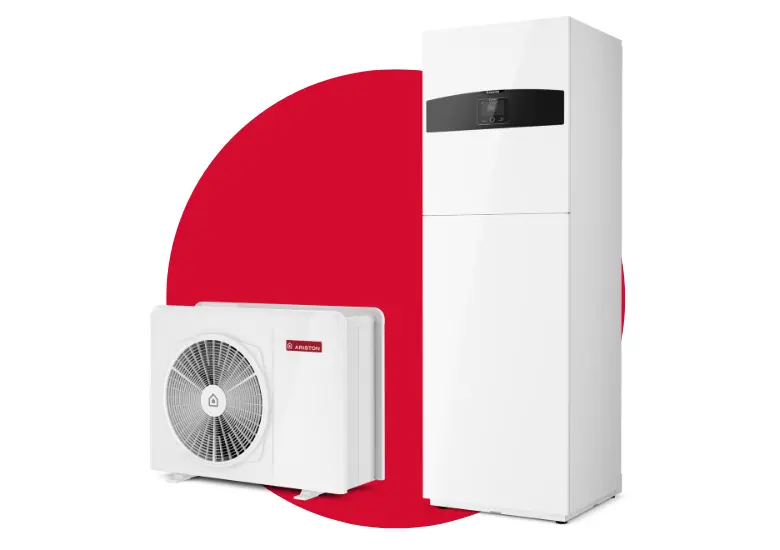
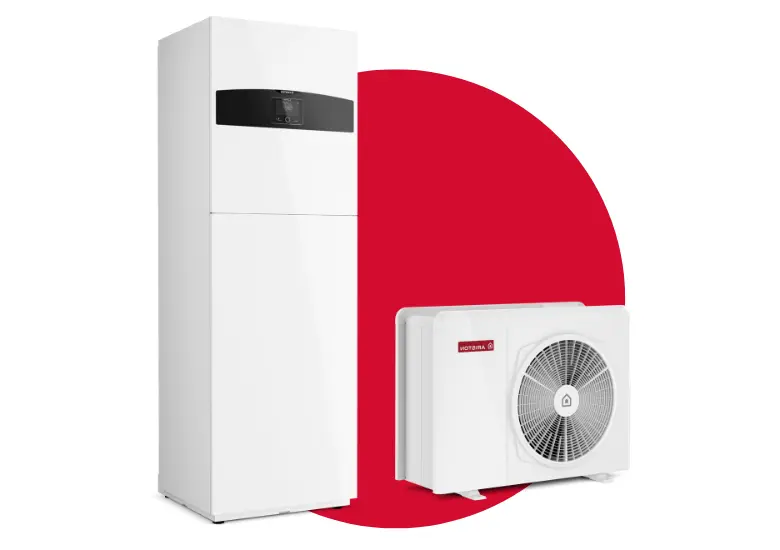
changes with Nora

diff --git a/src/components/ContactForm.jsx b/src/components/ContactForm.jsx
@@ -12,7 +12,6 @@ const ContactForm = () => {
     user_name: "",
     user_email: "",
     user_phone: "",
-    socialmedia: [],
   });
 
   const handleCheckboxChange = () => {
@@ -50,7 +49,7 @@ const ContactForm = () => {
 
     emailjs
       .sendForm("service_2by0d8j", "template_8kpkbnc", form.current, {
-        publicKey: "test_1sqisZJuG1Eyp-fqX",
+        publicKey: "1sqisZJuG1Eyp-fqX",
       })
       .then(
         () => {
@@ -66,7 +65,6 @@ const ContactForm = () => {
         name: formData.user_name,
         email: formData.user_email,
         number: formData.user_phone,
-        socialmedia: formData.socialmedia,
       },
     });
   };
@@ -78,26 +76,28 @@ const ContactForm = () => {
         id="redirectButtonLanding"
       >
         <h2 className="mb-4 mt-10">AFLĂ MAI MULTE!</h2>
-        <p className="text-xl">Programează-te gratuit completând formularul.</p>
+        <p className="text-[25px]">
+          Programează-te gratuit completând formularul.
+        </p>
       </div>
       <form
         ref={form}
         onSubmit={sendEmail}
-        className="flex max-w-2xl p-10 rounded-xl mx-auto flex-col gap-4 bg-energy-red"
+        className="flex max-w-4xl p-10 rounded-xl mx-auto flex-col gap-4 bg-energy-pink"
       >
         <div>
           <div className="mb-2">
             <Label
               htmlFor="name"
-              value="Nume si prenume"
-              className="text-white text-lg"
+              value="Nume și Prenume*"
+              className="text-white text-xl"
             />
           </div>
           <TextInput
             id="name"
             name="user_name"
             type="text"
-            placeholder="Introdu numele tau"
+            placeholder="Introdu numele tău"
             value={formData.user_name}
             onChange={handleInputChange}
             required
@@ -107,8 +107,8 @@ const ContactForm = () => {
           <div className="mb-2">
             <Label
               htmlFor="email"
-              value="Adresa de e-mail"
-              className="text-white text-lg"
+              value="E-mail*"
+              className="text-white text-xl"
             />
           </div>
           <TextInput
@@ -125,23 +125,26 @@ const ContactForm = () => {
           <div className="mb-2 ">
             <Label
               htmlFor="telefon"
-              value="Numar de telefon"
-              className="text-white text-lg"
+              value="Telefon*"
+              className="text-white text-xl"
             />
           </div>
           <TextInput
             id="telefon"
             type="tel"
             name="user_phone"
-            placeholder="Introdu numarul tau de telefon"
+            placeholder="Introdu numărul tău de telefon"
             value={formData.user_phone}
             onChange={handleInputChange}
             required
           />
         </div>
         <fieldset className="flex max-w-md flex-col gap-4" required>
-          <legend className="mb-4 text-white text-lg">
-            Cum ai aflat de noi?
+          <legend className="mb-4 text-white text-xl">
+            Cum ai aflat de noi?*
+            {formSubmitted && !isChecked && (
+              <span className="pl-1">(acest câmp este obligatoriu)</span>
+            )}
           </legend>
           <div className="flex items-center gap-2">
             <Checkbox
@@ -150,7 +153,7 @@ const ContactForm = () => {
               value="Facebook"
               onChange={handleCheckboxChange}
             />
-            <Label htmlFor="facebook" className="text-white text-md">
+            <Label htmlFor="facebook" className="text-white text-xl">
               Facebook
             </Label>
           </div>
@@ -161,7 +164,7 @@ const ContactForm = () => {
               value="Google"
               onChange={handleCheckboxChange}
             />
-            <Label htmlFor="google" className="text-white text-md">
+            <Label htmlFor="google" className="text-white text-xl">
               Google
             </Label>
           </div>
@@ -172,7 +175,7 @@ const ContactForm = () => {
               value="Recomandare"
               onChange={handleCheckboxChange}
             />
-            <Label htmlFor="recomandare" className="text-white text-md">
+            <Label htmlFor="recomandare" className="text-white text-xl">
               Recomandare
             </Label>
           </div>
@@ -183,26 +186,21 @@ const ContactForm = () => {
               value="Ariston"
               onChange={handleCheckboxChange}
             />
-            <Label htmlFor="ariston" className="text-white text-md">
+            <Label htmlFor="ariston" className="text-white text-xl">
               Sunt deja client Ariston
             </Label>
           </div>
         </fieldset>
         <div className="flex items-center gap-2 p-2">
           <Checkbox id="cookies" required />
-          <Label htmlFor="cookies" className="text-white text-md">
+          <Label htmlFor="cookies" className="text-white text-lg">
             Sunt de acord cu gestionarea datelor mele personale în conformitate
             cu Politica de confidențialitate ABC ENERGY
           </Label>
         </div>
-        <Button className=" bg-energy-blue" type="submit">
-          <p className="text-lg">Trimite</p>
+        <Button className=" bg-energy-blue rounded-3xl py-2" type="submit">
+          <p className="text-[1.7rem] font-[Jost-Bold]">Trimite</p>
         </Button>
-        {formSubmitted && !isChecked && (
-          <p className="text-white text-center">
-            Va rugam sa ne spuneti cum ati aflat de noi. Va multumim!
-          </p>
-        )}
       </form>
     </section>
   );

diff --git a/src/components/HeroSectionCountdown.jsx b/src/components/HeroSectionCountdown.jsx
@@ -22,26 +22,26 @@ const CountdownTimer = ({ targetDate }) => {
   }, [targetDate]);
 
   return (
-    <div className="mt-[-1px] flex items-center justify-evenly md:justify-center md:gap-10 bg-energy-red flex-wrap">
-      <div className="flex flex-col p-2 justify-center items-center text-white">
+    <div className="mt-[-1px] flex items-center justify-evenly md:justify-center md:gap-10 bg-energy-pink flex-wrap">
+      <div className="flex flex-col p-2 justify-center items-center text-white border-4 m-2 rounded-lg">
         <span className="text-2xl font-['Jost-Bold'] min-[320px]:text-4xl md:text-2xl lg:text-4xl">
           <span>{timeLeft.days}</span>
         </span>
         ZILE
       </div>
-      <div className="flex flex-col p-2 justify-center items-center text-white">
+      <div className="flex flex-col p-2 justify-center items-center text-white border-4 m-2 rounded-lg">
         <span className="text-2xl font-['Jost-Bold'] min-[320px]:text-4xl md:text-2xl lg:text-4xl">
           <span>{timeLeft.hours}</span>
         </span>
         ORE
       </div>
-      <div className="flex flex-col p-2 justify-center items-center text-white">
+      <div className="flex flex-col p-2 justify-center items-center text-white border-4 m-2 rounded-lg">
         <span className="text-2xl font-['Jost-Bold'] min-[320px]:text-4xl md:text-2xl lg:text-4xl">
           <span>{timeLeft.minutes}</span>
         </span>
         MINUTE
       </div>
-      <div className="flex flex-col p-2 justify-center items-center text-white">
+      <div className="flex flex-col p-2 justify-center items-center text-white border-4 m-2 rounded-lg">
         <span className="text-2xl font-['Jost-Bold'] min-[320px]:text-4xl md:text-2xl lg:text-4xl">
           <span>{timeLeft.seconds}</span>
         </span>

diff --git a/src/pages/ThankYou.jsx b/src/pages/ThankYou.jsx
@@ -15,21 +15,15 @@ const ThankYou = () => {
       </div>
       <CheckIcon />
       <div class="text-center">
-        <p className="text-lg">
-          Cererea ta a fost &icirc;nregistrată cu urmatoarele informatii:
+        <p className="text-[20px]">
+          Cererea ta a fost &icirc;nregistrată cu următoarele informații:
         </p>
         <Blockquote className="my-4 border-l-4 border-gray-300 bg-gray-50 p-4 dark:border-gray-500 dark:bg-gray-800">
-          <p>Nume si prenume: {location.state.name}</p>
+          <p>Nume și Prenume: {location.state.name}</p>
           <p>E-mail: {location.state.email}</p>
-          <p>Numar de telefon: {location.state.number}</p>
-          <p>
-            De unde ati aflat de noi:{" "}
-            {location.state.socialmedia.map((element) => {
-              return <p>{element}</p>;
-            })}
-          </p>
+          <p>Telefon: {location.state.number}</p>
         </Blockquote>
-        <p className="text-xl">
+        <p className="text-[20px]">
           Apreciem interesul și timpul acordat, o să vă contactăm&nbsp;&icirc;n
           cel mai scurt timp posibil.
         </p>

diff --git a/src/components/HeroSection.jsx b/src/components/HeroSection.jsx
@@ -1,7 +1,7 @@
 import React from "react";
 import { useMediaQuery } from "react-responsive";
-import desktopImage from "../assets/images/DesktopHeroImage2.webp";
-import mobileImage from "../assets/images/MobileHeroImage2.webp";
+import desktopImage from "../assets/images/DesktopHeroImage3.webp";
+import mobileImage from "../assets/images/MobileHeroImage3.webp";
 import CountdownTimer from "./HeroSectionCountdown";
 
 const HeroSection = () => {

diff --git a/src/components/CTASection.jsx b/src/components/CTASection.jsx
@@ -9,7 +9,7 @@ const CTASection = () => {
     <section className="landingPageSection px-5">
       <div className="mb-10">
         <h2 className="text-center mb-5">
-          DESCOPERĂ POMPELE DE CĂLDURĂ ABC ENERGY
+          DESCOPERĂ POMPELE DE CĂLDURĂ ARISTON
         </h2>
         <h2 className="text-center">
           CONFORT TERMIC SUSTENABIL {""}

diff --git a/src/components/CertificationSection.jsx b/src/components/CertificationSection.jsx
@@ -44,7 +44,8 @@ const CertificationSection = () => {
         <h2>CERTIFICĂRI ISO, AUTORIZAȚII ISCIR, ANRE, AGFR</h2>
       </div>
       <Carousel
-        draggable={false}
+        draggable={true}
+        swipeable={true}
         responsive={responsive}
         autoPlaySpeed={1000}
         keyBoardControl={true}

diff --git a/src/assets/styles/CertificationSection.css b/src/assets/styles/CertificationSection.css
@@ -1,5 +1,6 @@
 .react-multiple-carousel__arrow {
-  background-color: black !important;
+  background-color: #007bff !important;
+  padding: 20px;
 }
 .carousel-item-padding-40-px {
   margin: 20px;

diff --git a/src/assets/styles/VideosSection.css b/src/assets/styles/VideosSection.css
@@ -17,7 +17,7 @@
 
 .videoSectiune {
   padding: 20px;
-  background-color: #d30c2f;
+  background-color: #f41559;
   border-radius: 30px;
   display: flex;
   flex-direction: column;

diff --git a/src/assets/styles/CardsSection.css b/src/assets/styles/CardsSection.css
@@ -37,7 +37,7 @@
 }
 
 .landing-serviciu-container:hover {
-  background-color: #d30c2f;
+  background-color: #f41559;
 }
 .landing-serviciu-container:hover h3 {
   color: white;

diff --git a/src/index.css b/src/index.css
@@ -22,7 +22,7 @@
     @apply sm:text-[2.2rem];
     @apply md:text-[1.7rem];
     @apply xl:text-[1.9rem];
-    @apply 2xl:text-[2rem];
+    @apply 2xl:text-[2.2rem];
   }
 }
 
